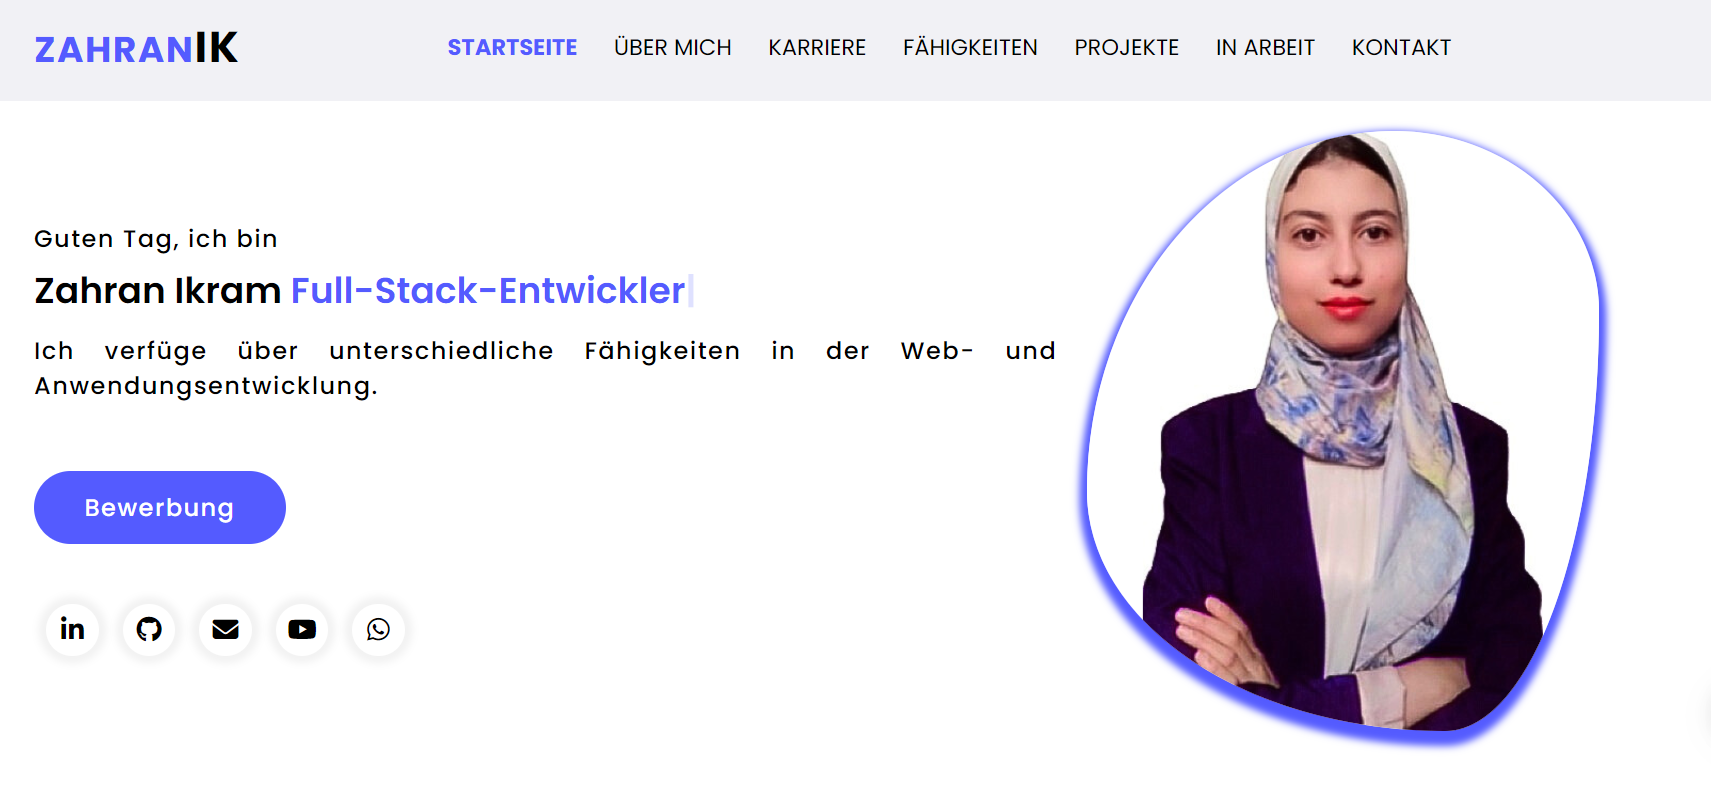
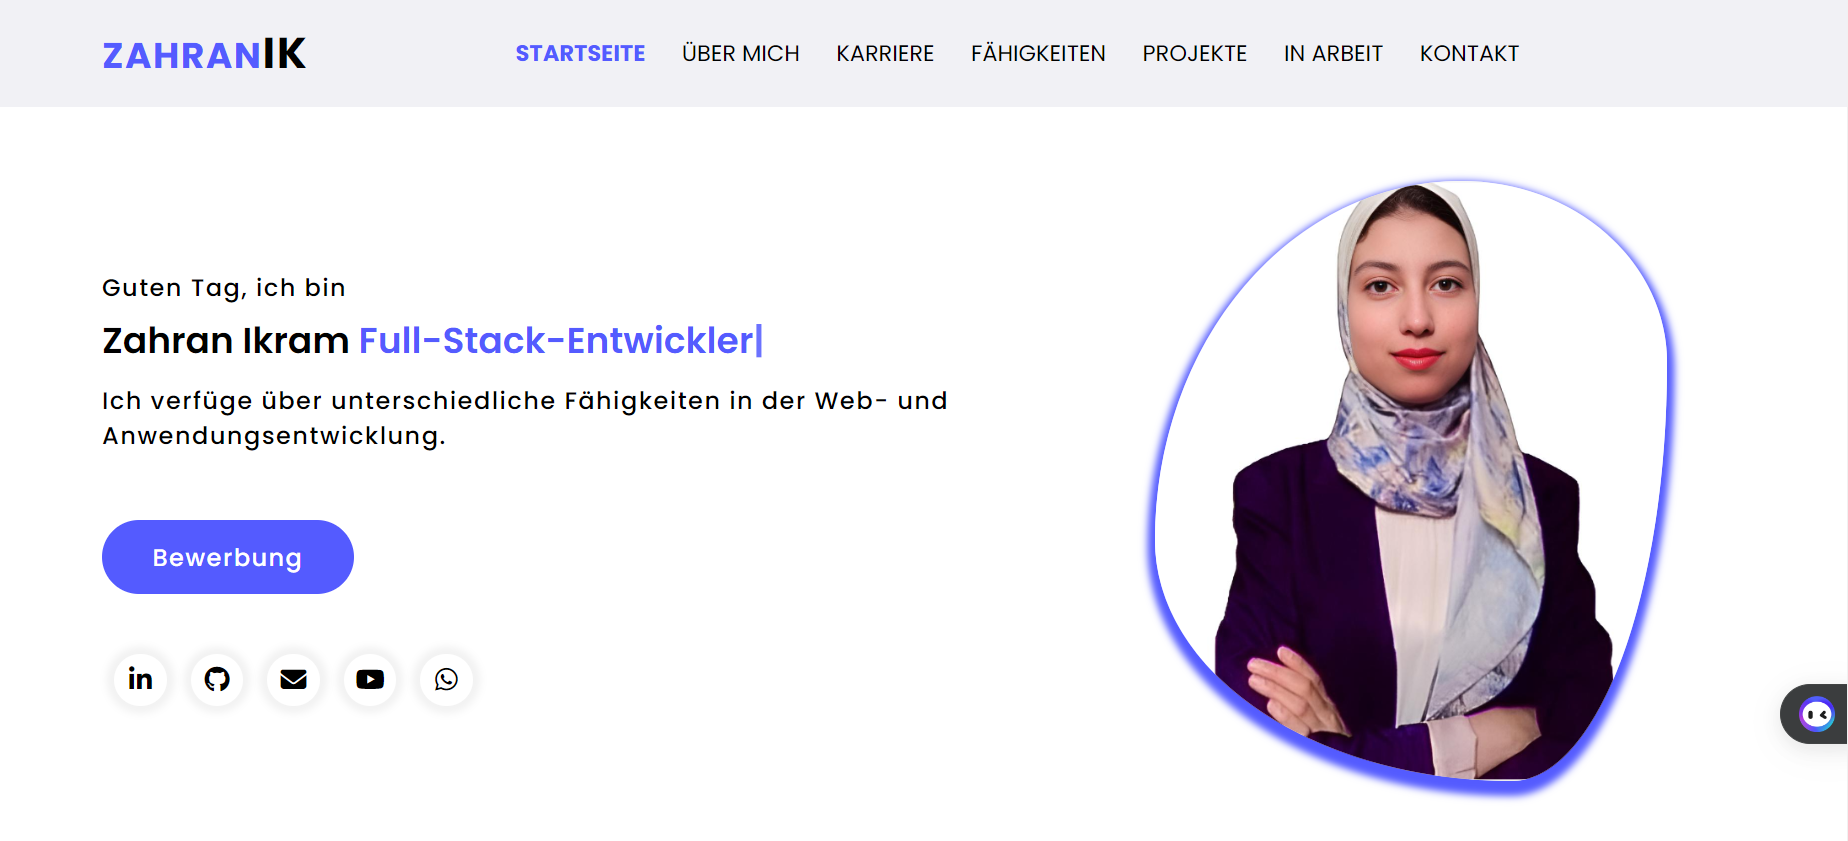
message

diff --git a/index.html b/index.html
@@ -39,8 +39,10 @@
             // Fonction pour masquer le menu après avoir cliqué sur un élément du menu
             document.querySelectorAll(".navigation a").forEach(function(element) {
                 element.addEventListener("click", function() {
-                    var navigation = document.getElementById("navigationB");
-                    navigation.style.display = "none";
+                    if (window.innerWidth <= 800) {
+                        var navigation = document.getElementById("navigationB");
+                        navigation.style.display = "none";
+                    }
                 });
             });
         </script>
@@ -60,11 +62,11 @@
             <a href="#" class="main-btn-video"><i class="fa-solid fa-play"></i></a>
             -->
             <div class="sociale-ntz-icons">
-                <a href="#" class="icon"><i class="fa-brands fa-linkedin-in"></i></a>
-                <a href="#" class="icon"><i class="fa-brands fa-github"></i></a>
-                <a href="#" class="icon"><i class="fa-solid fa-envelope"></i></a>
-                <a href="#" class="icon"><i class="fa-brands fa-youtube"></i></a>
-                <a href="#" class="icon"><i class="fa-brands fa-whatsapp"></i></a>
+                <a href="https://www.linkedin.com/in/zahran-ikram-0b8232224/" class="icon"><i class="fa-brands fa-linkedin-in"></i></a>
+                <a href="https://github.com/ikramZahran" class="icon"><i class="fa-brands fa-github"></i></a>
+                <a href="https://mail.google.com/mail/u/1/#inbox" class="icon"><i class="fa-solid fa-envelope"></i></a>
+                <a href="https://www.youtube.com/@hoffnungen.zahran" class="icon"><i class="fa-brands fa-youtube"></i></a>
+                <a href="Https://wa.me/+212674613321" class="icon"><i class="fa-brands fa-whatsapp"></i></a>
             </div>
         </div>
 
@@ -260,20 +262,15 @@
                         <div class="contenets">
                             <div class="box">
                                 <div class="year"><i class="fa-regular fa-calendar-days"></i> 01 April 2022 - 01 Juli 2022</div>
-                                <h3>Webanwendung für die Einkaufsverwaltung.</h3>
+                                <h3>UML-Modellierung.</h3>
                                 <p class="fade-in">
                                     <ul class="praktkum">
                                         <li>Praktikum bei der Firma Innov DS in FES.</li>
-                                        <li>Frontend-Technologie : 
-                                            <li class="ft">ReactJS</li>
-                                            <li class="ft">NextJs</li>
-                                            <li class="ft">TypeScript</li>
-                                            <li class="ft">Tailwind</li>
+                                        <li>Desktop-Anwendung zur Modellierung-UML : 
+                                            <li class="ft">C#.</li>
                                         </li>
-                                        <li>Backend-Technologie :
-                                            <li class="ft">Spring Boot</li>
-                                            <li class="ft">Hibernate</li>
-                                            <li class="ft">Datenbank PostgreSQL</li>
+                                        <li>Eine repräsentative Website für die UML-Modellierungsanwendung :
+                                            <li class="ft">WordPress</li>
                                         </li>
                                     </ul>
                                 </p>
@@ -392,7 +389,7 @@
                         <div class="port-content">
                             <h3>Hochzeitsmanagement</h3>
                             <p>Webanwendung für die Hochzeitsverwaltung und den Versand von Hochzeitseinladungen <span>PHP, Bootstrap, MySQL</span>.</p>
-                        <a href="#"><i class="fa-solid fa-arrow-up-right-from-square"></i></a>
+                        <a href="https://github.com/ikramZahran/Hochzeitsmanagement.git"><i class="fa-solid fa-arrow-up-right-from-square"></i></a>
                         </div>
                     </div>
 
@@ -428,7 +425,7 @@
                         <div class="port-content">
                             <h3>UML-Modellierung</h3>
                             <p>Eine Desktop-Anwendung zur Modellierung-UML bietet : Klassendiagramme, Anwendungsfalldiagramme und Sequenzdiagramme zu erstellen <span>C#</span>.</p>
-                        <a href="#"><i class="fa-solid fa-arrow-up-right-from-square"></i></a>
+                        <a href="https://github.com/ikramZahran/UML-Modellierung.git"><i class="fa-solid fa-arrow-up-right-from-square"></i></a>
                         </div>
                     </div>
                 </div>
@@ -521,11 +518,11 @@
     <footer class="footer">
         <p class="footer-title">Copyrights @ <span>Zahran Ikram</span> 2024</p>
         <div class="sociale-ntz-icons">
-            <a href="#" class="icon"><i class="fa-brands fa-linkedin-in"></i></a>
-            <a href="#" class="icon"><i class="fa-brands fa-github"></i></a>
-            <a href="#" class="icon"><i class="fa-solid fa-envelope"></i></a>
-            <a href="#" class="icon"><i class="fa-brands fa-youtube"></i></a>
-            <a href="#" class="icon"><i class="fa-brands fa-whatsapp"></i></a>
+            <a href="https://www.linkedin.com/in/zahran-ikram-0b8232224/" class="icon"><i class="fa-brands fa-linkedin-in"></i></a>
+            <a href="https://github.com/ikramZahran" class="icon"><i class="fa-brands fa-github"></i></a>
+            <a href="https://mail.google.com/mail/u/1/#inbox" class="icon"><i class="fa-solid fa-envelope"></i></a>
+            <a href="https://www.youtube.com/@hoffnungen.zahran" class="icon"><i class="fa-brands fa-youtube"></i></a>
+            <a href="Https://wa.me/+212674613321" class="icon"><i class="fa-brands fa-whatsapp"></i></a>
         </div>
     </footer>
 </body>

diff --git a/css/index.css b/css/index.css
@@ -758,142 +758,183 @@ a:hover::after {
     color: #545BFF;
 }
 
-@media screen and (max-width: 768px) {
-    .header .navigation {
-        display: none;
-        flex-direction: column;
-        position: absolute;
-        top: 60px;
-        left: 0;
-        width: 50%;
-        background-color: #8a8dec;
-        z-index: 1;
+/* iPad Mini (768 x 1024 pixels)  */
+@media(max-width: 768px){
+    header{
+        padding: 12px 20px;
     }
 
-    .header .navigation.responsive {
-        display: grid;
+    .navigation{
+        padding-left: 10px;
     }
 
-    .header .navigation a {
-        padding: 10px;
-        text-align: center;
-    }
-}
-
-@media screen and (min-width: 769px) {
-    .header .menu-icon {
-        display: none;
-    }
-
-    .header .navigation {
-        display: grid;
-    }
-}
-
-@media screen and (max-width: 768px) {
-    .navigation {
-        display: none;
-    }
-
-    .navigation a{
-        display: grid;
-    }
-
-    .menu-icon {
-        display: flex;
-    }
-
-    .menu-icon .fa-bars {
-        font-size: 24px; /* Ajustez la taille de l'icône selon vos besoins */
+    .logo{
+        font-weight: 600;
+        text-transform: uppercase;
+        font-size: 1.2em;
+        letter-spacing: 0.6px;
+        margin-right: 10%;
     }
 
     .main {
-        padding-top: 90px;
         display: grid;
+        margin-top: auto;
+        margin-bottom: -20%;
+    }
+
+    .introduction{
+        margin-top: -10%;
     }
     
     .block-img {
         height: 260px;/* Ajustez la hauteur pour les écrans plus petits */
         width: 200px;
-        height: 200px;
         min-height: 300px;
         min-width: 10%;
+        margin-left: 20%;
+        margin-top: -50%;
+        margin-bottom: 20%;
     }
-}
 
-@media screen and (max-width: 480px) {
-    .main {
-        padding: 10px;
+    .main h2{
+        font-size: 1.3em;
+    }
+
+    .main p{
+        font-size: 1em;
+    }
+
+    .content{
+        flex-direction: column;
+        align-items: center;
+    }
+
+    .content p{
+        font-size: 1.2em;
+    }
+
+    .about-us p {
+        font-size: 15px;
+        font-weight: 500;
+    }
+
+    .port-content h3{
+        font-size: 1.3rem;
+        font-weight: 500;
     }
     
-    .block-img {
-        height: 150px; /* Ajustez la hauteur pour les écrans encore plus petits */
-    }
-}
-
-@media screen and (max-width: 768px) {
-    .header {
-        width: auto;
+    .port-content p{
+        font-size: .7rem;
+        margin: 2px 0 10px 0;
+        font-weight: 400;
     }
 
     .content .container {
         display: grid;
-        text-align: left;
+        margin-right: 25%;
+    }
+    
+    section{
+        padding: 12px 50px;
+    }
+}
+
+
+/* Responsive layout - makes a two column-layout instead of four columns */
+@media screen and (max-width: 800px) {
+    .column {
+       -ms-flex: 50%;
+       flex: 50%;
+       max-width: 50%;
+    }
+ }
+   
+ /* Responsive layout - makes the two columns stack on top of each other instead of next to each other */
+ @media screen and (max-width: 600px) {
+    .column {
+       -ms-flex: 100%;
+       flex: 100%;
+       max-width: 100%;
+    }
+ }
+ 
+ @media screen and (max-width: 900px) {
+    .navigation {
+       display: none;
+       position: absolute;
+       top: 3.7rem;
+       align-items: right;
+       width: 30%;
+       background-color: #545BFF;
+       text-align: center;
+    }
+   
+    .navigation.responsive {
+       display: block;
+    }
+   
+    .navigation a {
+       display: block;
+       color: #fff;
+       padding: 10px;
+    }
+ 
+    .navigation a:hover {
+         color: #fff;
+         font-weight: 700;
+       }
+   
+    .menu-icon {
+       display: block;
+       z-index: 1;
+    }
+ 
+    .logo {
+        font-size: 1.2rem;
+    }
+
+    .titel{
+        margin-top: 10%;
+    }
+
+    .content .container {
+        display: grid;
+        margin-left: 20%;
     }
 
     .ubermich-img img {
         align-items: center;
         height: 200px; /* Ajustez la hauteur pour les écrans encore plus petits */
-        width: 210px;
-        margin-left: 35%;
-        margin-top: 30px;
+        width: 200px;
+        margin-top: 32px;
     }
 
-    .description{
-        align-items: center;
-        height: 270px; /* Ajustez la hauteur pour les écrans encore plus petits */
-        width: 700px;
-        margin-left: 20%;
-        margin-bottom: 30px;
+    .port-content h3{
+        font-size: 1rem;
+        font-weight: 450;
     }
-
-    .fertigkeiten{
-        display: grid;
-    }
-
-    .fertigkeiten .fertig1, .fertigkeiten .fertig2{
-        margin-bottom: 10px;        
-    }
-
-    .about-us p {
-        font-size: 14px;
+    
+    .port-content p{
+        font-size: .7rem;
+        margin: 2px 0 10px 0;
         font-weight: 400;
     }
 
-    .about-us {
-        padding-bottom: 50%;
-    }
-}
-
-@media screen and (max-width: 480px) {
-    .content .container  {
-        padding: 10px;
-    }
-    
-    .ubermich-img {
-        align-items: center;
-        height: 230px; /* Ajustez la hauteur pour les écrans encore plus petits */
-        width: 680px;
-        margin-left: 10%;
-        margin-bottom: 20px;   
+    .Projekte .container {
+        display: grid;
     }
 
-    .about-us .description {
-        max-width: 20%;
+    .Projekte {
+        padding-right: 50%;
     }
 
-    .about-us p {
-        font-size: 13px;
-        font-weight: 350;
+    .Projekte .titel{
+        padding-left: 110%;
     }
-}
+
+    .kontakt-form input, .kontakt-form textarea {
+        font-size: 0.7rem;
+        font-weight: 500;
+        padding: 12px;
+    }
+ }
